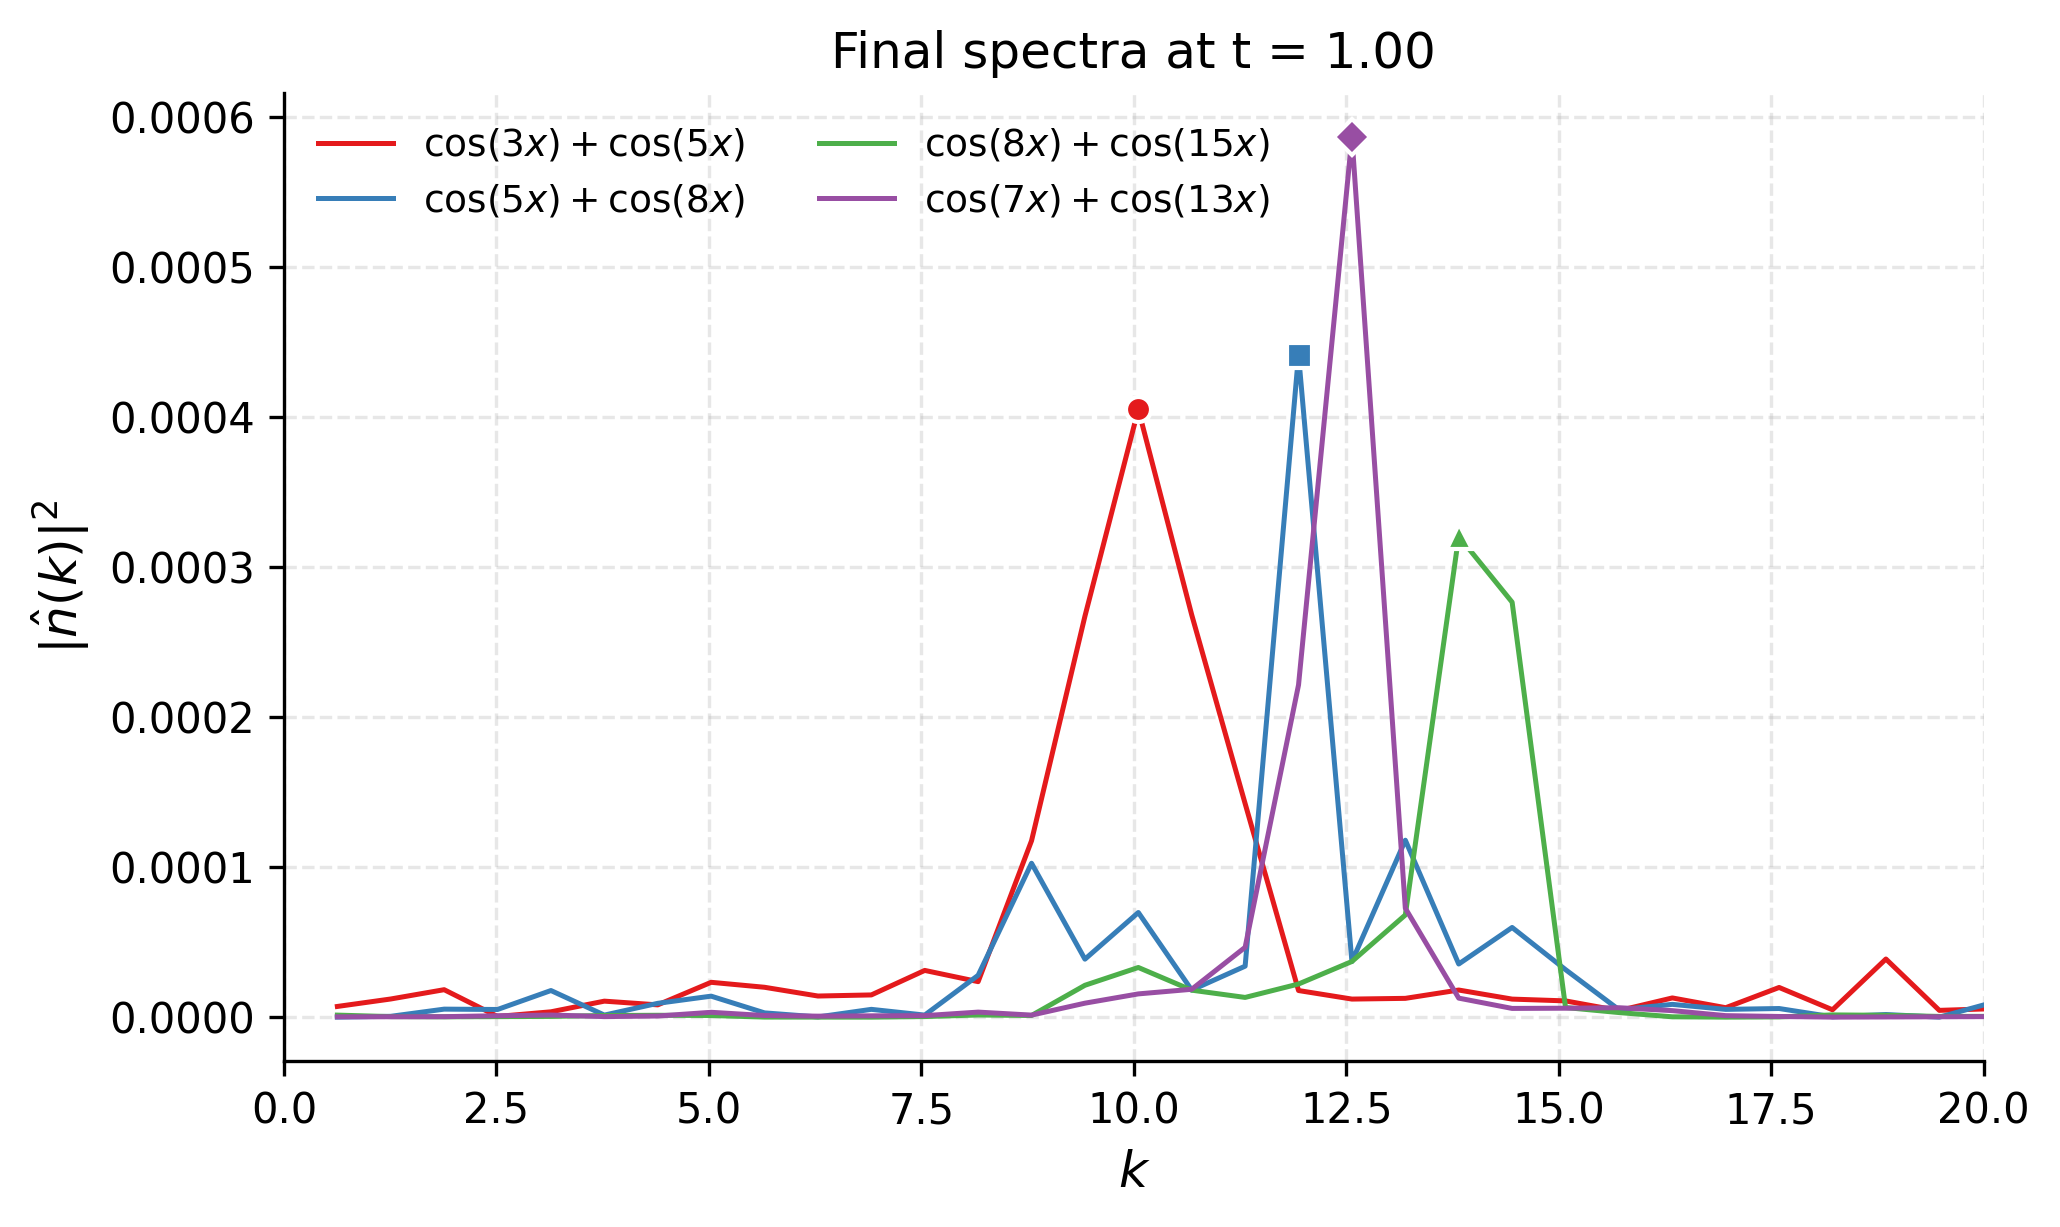
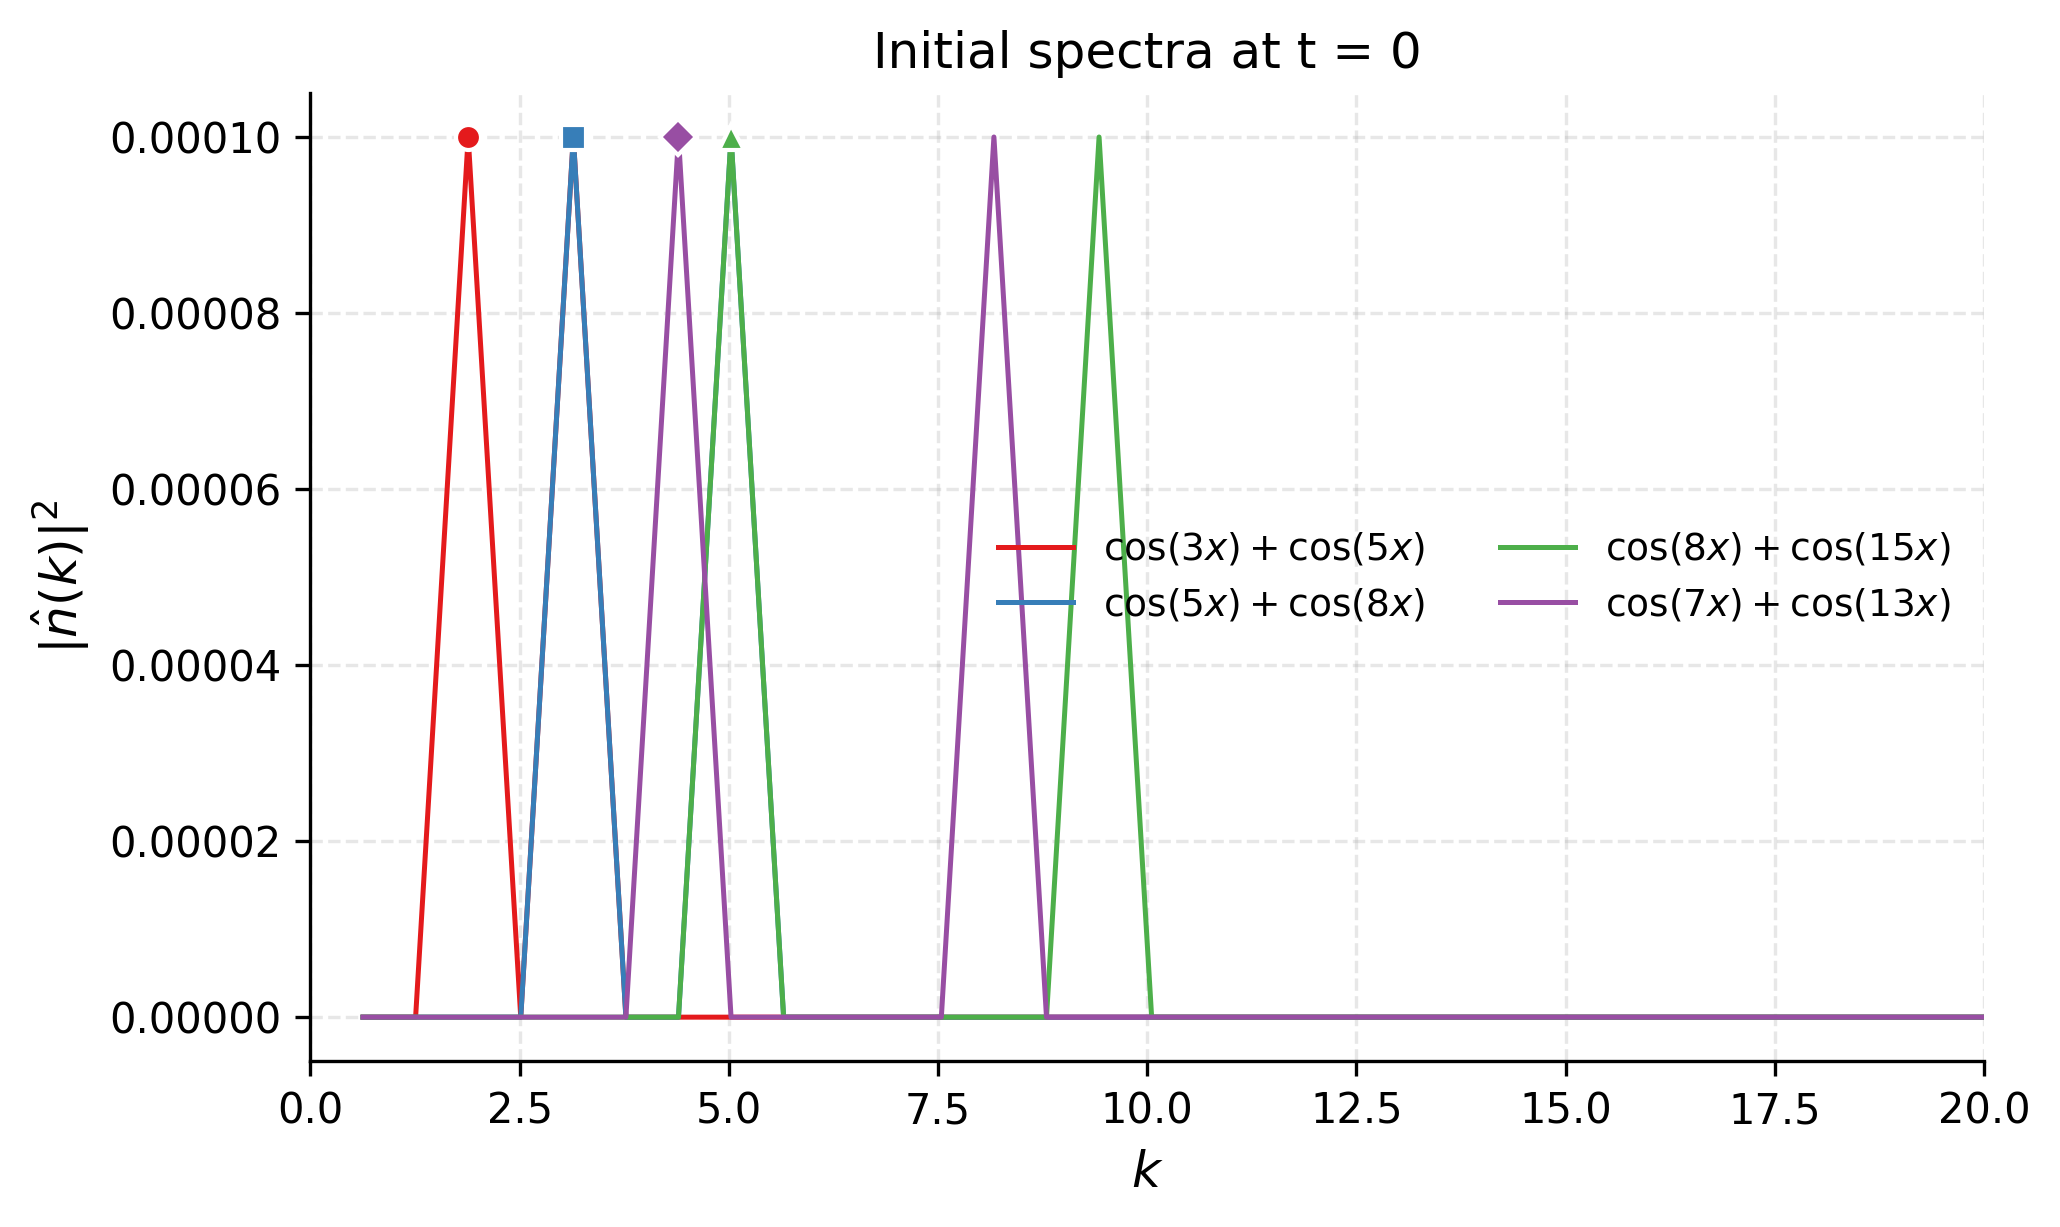
Update `plot_all_final_spectra` to reflect initial spectra and adjust power spectrum calculation
- Modified the power spectrum calculation to use the first time slice instead of the last, enhancing the analysis of initial conditions.
- Updated plot title to indicate the focus on initial spectra at time t = 0, improving clarity in visual outputs.
- Adjusted output files to reflect these changes in both PDF and PNG formats, ensuring consistency in visual representation.

diff --git a/mass injection/mass injection.py b/mass injection/mass injection.py
@@ -248,7 +248,8 @@ def plot_all_final_spectra(results, L, tag="final_overlay", normalize=False):
     plt.style.use('default')  # ensure neutral style
     
     for i, (m, t, n_t) in enumerate(results):
-        k, P = _power_spectrum_1d(n_t[:, -1], L)
+        # k, P = _power_spectrum_1d(n_t[:, -1], L)
+        k, P = _power_spectrum_1d(n_t[:, 0], L) 
         if normalize and np.max(P) > 0:
             P = P / np.max(P)
         
@@ -284,7 +285,7 @@ def plot_all_final_spectra(results, L, tag="final_overlay", normalize=False):
     
     os.makedirs(par.outdir, exist_ok=True)
     plt.tight_layout()
-    plt.title(f"Final spectra at t = {par.t_final:.2f}")
+    plt.title(f"Initial spectra at t = 0")
     plt.savefig(f"{par.outdir}/fft_final_overlay_{tag}.png", dpi=300, bbox_inches='tight')
     plt.savefig(f"{par.outdir}/fft_final_overlay_{tag}.pdf", dpi=300, bbox_inches='tight')
     plt.close()
